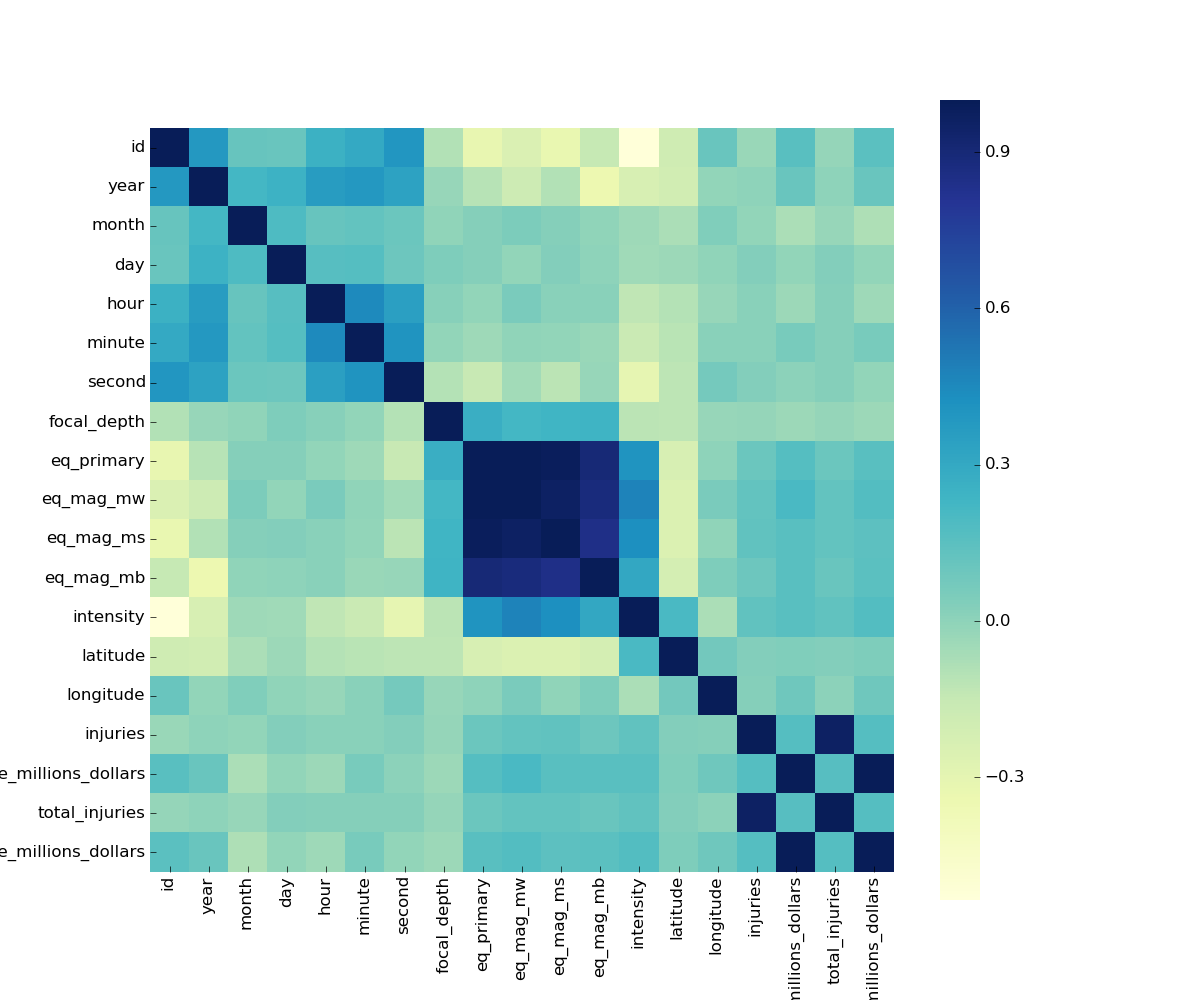
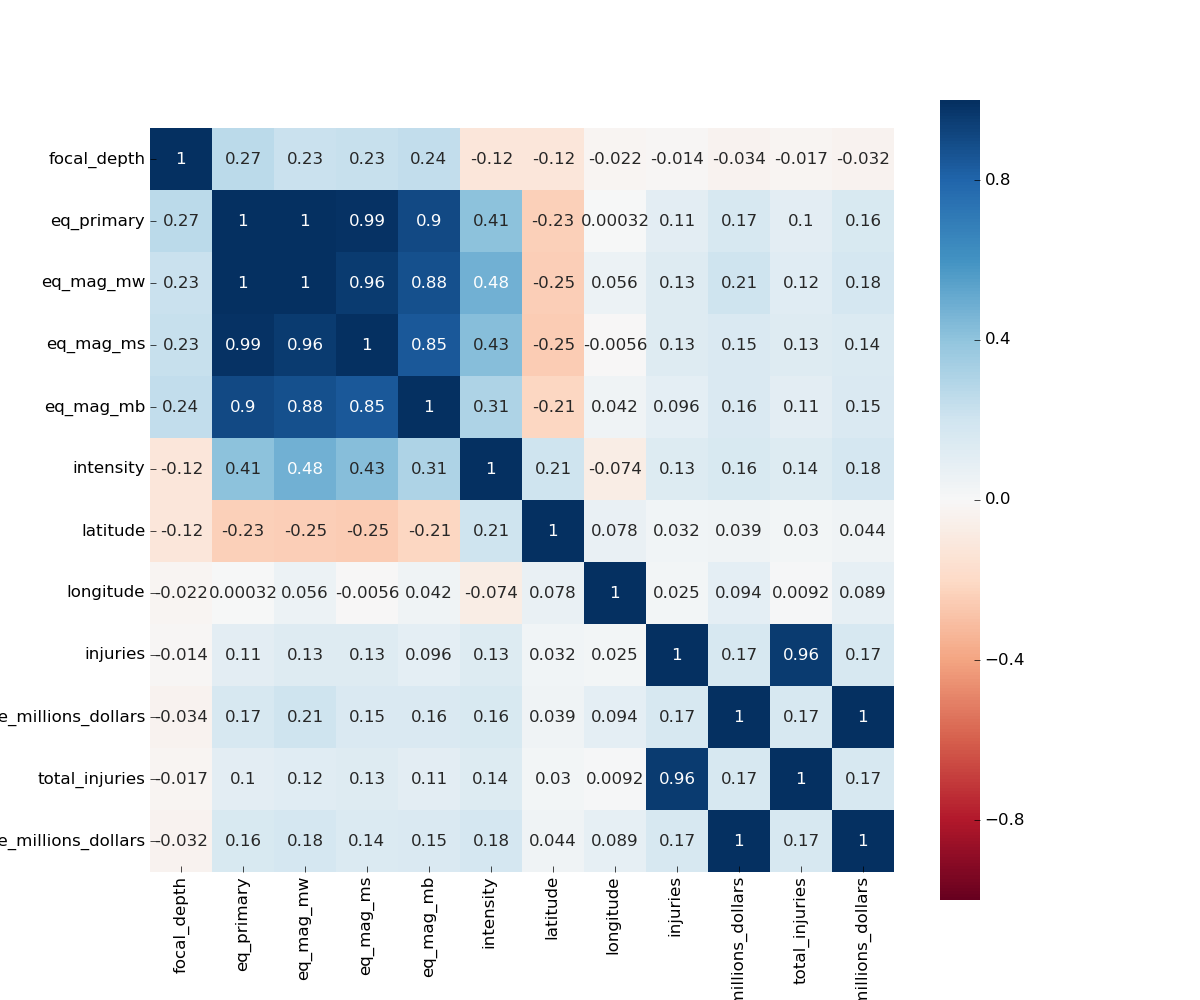
scatter_customized

diff --git a/supervised_learning/0x02-exploratory_data_analysis/6-correlation.py b/supervised_learning/0x02-exploratory_data_analysis/6-correlation.py
@@ -74,6 +74,11 @@ plt.xlabel('Primary earthquake magnitude')
 plt.ylabel('No. of injuries')
 plt.savefig('6-scatterplot.png')
 #correlation Heatmap
+feature_subset = [
+    'focal_depth', 'eq_primary', 'eq_mag_mw', 'eq_mag_ms', 'eq_mag_mb',
+    'intensity',
+    'latitude', 'longitude', 'injuries', 'damage_millions_dollars',
+     'total_injuries', 'total_damage_millions_dollars']
 plt.figure(figsize = (12, 10))
-sns.heatmap(data.corr(), square=True, cmap="YlGnBu")
+sns.heatmap(data[feature_subset].corr(), square=True, annot=True, cmap="RdBu", vmin=-1, vmax=1)
 plt.savefig('6-corr_heatmap.png')
